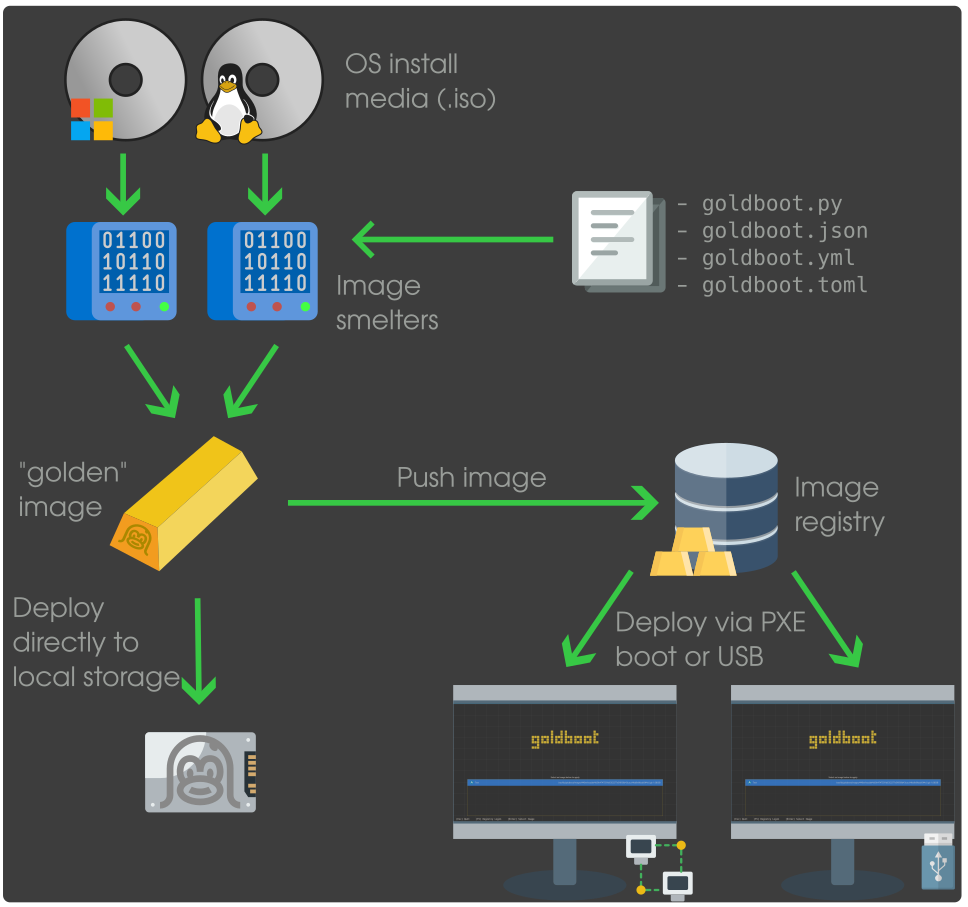
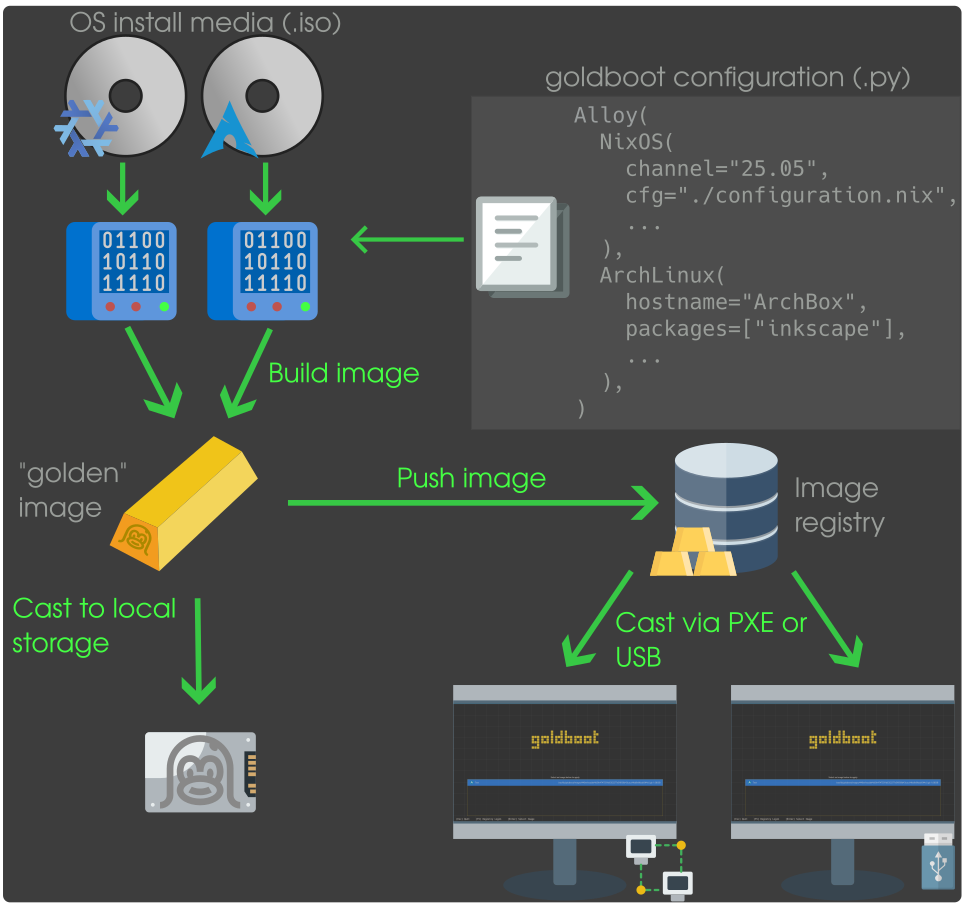
refactor: 'cast' -> 'build'

diff --git a/goldboot/src/foundry/mod.rs b/goldboot/src/foundry/mod.rs
@@ -1,13 +1,13 @@
-use self::qemu::{detect_accel, Accel};
+use self::qemu::{Accel, detect_accel};
 use self::{fabricators::Fabricator, os::Os, sources::ImageSource};
-use crate::foundry::os::CastImage;
+use crate::foundry::os::BuildImage;
 use crate::{cli::progress::ProgressBar, library::ImageLibrary};
 
 use anyhow::Result;
 use byte_unit::Byte;
-use clap::{builder::PossibleValue, ValueEnum};
+use clap::{ValueEnum, builder::PossibleValue};
 use goldboot_image::ImageBuilder;
-use goldboot_image::{qcow::Qcow3, ImageArch, ImageHandle};
+use goldboot_image::{ImageArch, ImageHandle, qcow::Qcow3};
 use rand::Rng;
 use ron::ser::PrettyConfig;
 use serde::{Deserialize, Serialize};
@@ -240,7 +240,7 @@ impl Foundry {
     }
 }
 
-/// Manages the image casting process. Multiple workers can run in parallel
+/// Manages the image build process. Multiple workers can run in parallel
 /// to speed up multiboot configurations.
 pub struct FoundryWorker {
     pub arch: ImageArch,
@@ -277,12 +277,12 @@ pub struct FoundryWorker {
 }
 
 impl FoundryWorker {
-    /// Run the image casting/building process.
+    /// Run the image building process.
     pub fn run(&mut self) -> Result<()> {
         self.start_time = Some(SystemTime::now());
         Qcow3::create(&self.qcow_path, self.qcow_size)?;
 
-        self.element.os.cast(&self)?;
+        self.element.os.build(&self)?;
         info!(
             duration = ?self.start_time.unwrap().elapsed()?,
             "Build completed",

diff --git a/goldboot/src/foundry/os/arch_linux/mod.rs b/goldboot/src/foundry/os/arch_linux/mod.rs
@@ -1,6 +1,7 @@
-use super::{CastImage, DefaultSource};
+use super::{BuildImage, DefaultSource};
 use crate::cli::prompt::Prompt;
 use crate::cli::prompt::PromptNew;
+use crate::foundry::Foundry;
 use crate::foundry::fabricators::Fabricate;
 use crate::foundry::http::HttpServer;
 use crate::foundry::options::hostname::Hostname;
@@ -8,14 +9,13 @@ use crate::foundry::options::unix_account::RootPassword;
 use crate::foundry::os::arch_linux::archinstall::ArchinstallConfig;
 use crate::foundry::os::arch_linux::archinstall::ArchinstallCredentials;
 use crate::foundry::qemu::{OsCategory, QemuBuilder};
-use crate::foundry::Foundry;
 use crate::wait;
 use crate::{
-    foundry::{sources::ImageSource, FoundryWorker},
+    foundry::{FoundryWorker, sources::ImageSource},
     wait_screen_rect,
 };
-use anyhow::bail;
 use anyhow::Result;
+use anyhow::bail;
 use dialoguer::theme::Theme;
 use goldboot_image::ImageArch;
 use serde::{Deserialize, Serialize};
@@ -55,8 +55,8 @@ impl DefaultSource for ArchLinux {
     }
 }
 
-impl CastImage for ArchLinux {
-    fn cast(&self, worker: &FoundryWorker) -> Result<()> {
+impl BuildImage for ArchLinux {
+    fn build(&self, worker: &FoundryWorker) -> Result<()> {
         let mut qemu = QemuBuilder::new(&worker, OsCategory::Linux)
             .source(&worker.element.source)?
             .prepare_ssh()?

diff --git a/goldboot/src/foundry/os/goldboot/mod.rs b/goldboot/src/foundry/os/goldboot/mod.rs
@@ -1,4 +1,4 @@
-use anyhow::{bail, Result};
+use anyhow::{Result, bail};
 use dialoguer::theme::Theme;
 use goldboot_image::ImageArch;
 use serde::{Deserialize, Serialize};
@@ -14,18 +14,18 @@ use crate::{
     cli::prompt::Prompt,
     enter,
     foundry::{
+        Foundry, FoundryWorker,
         http::HttpServer,
         options::{hostname::Hostname, unix_account::RootPassword},
         qemu::{OsCategory, QemuBuilder},
         sources::ImageSource,
-        Foundry, FoundryWorker,
     },
     input, wait, wait_screen, wait_screen_rect,
 };
 
 use super::{
-    debian::{fetch_debian_iso, DebianEdition},
-    CastImage, DefaultSource,
+    BuildImage, DefaultSource,
+    debian::{DebianEdition, fetch_debian_iso},
 };
 
 /// Goldboot Linux is a special-purpose distribution for deploying .gb images.
@@ -58,8 +58,8 @@ impl DefaultSource for Goldboot {
     }
 }
 
-impl CastImage for Goldboot {
-    fn cast(&self, worker: &FoundryWorker) -> Result<()> {
+impl BuildImage for Goldboot {
+    fn build(&self, worker: &FoundryWorker) -> Result<()> {
         // Load goldboot executable
         let exe = if let Some(path) = self.executable.as_ref() {
             std::fs::read(path)?

diff --git a/goldboot/src/foundry/os/debian/mod.rs b/goldboot/src/foundry/os/debian/mod.rs
@@ -1,4 +1,4 @@
-use anyhow::{bail, Result};
+use anyhow::{Result, bail};
 use dialoguer::theme::Theme;
 use goldboot_image::ImageArch;
 use serde::{Deserialize, Serialize};
@@ -9,16 +9,16 @@ use crate::{
     cli::prompt::Prompt,
     enter,
     foundry::{
+        Foundry, FoundryWorker,
         http::HttpServer,
         options::{hostname::Hostname, unix_account::RootPassword},
         qemu::{OsCategory, QemuBuilder},
         sources::ImageSource,
-        Foundry, FoundryWorker,
     },
     input, wait, wait_screen, wait_screen_rect,
 };
 
-use super::{CastImage, DefaultSource};
+use super::{BuildImage, DefaultSource};
 
 #[derive(Clone, Serialize, Deserialize, Debug, Default)]
 pub enum DebianEdition {
@@ -102,8 +102,8 @@ impl DefaultSource for Debian {
     }
 }
 
-impl CastImage for Debian {
-    fn cast(&self, worker: &FoundryWorker) -> Result<()> {
+impl BuildImage for Debian {
+    fn build(&self, worker: &FoundryWorker) -> Result<()> {
         let mut qemu = QemuBuilder::new(&worker, OsCategory::Linux)
             .vga("cirrus")
             .source(&worker.element.source)?

diff --git a/goldboot/src/foundry/os/alpine_linux/mod.rs b/goldboot/src/foundry/os/alpine_linux/mod.rs
@@ -10,15 +10,15 @@ use crate::{
     cli::prompt::{Prompt, PromptNew},
     enter,
     foundry::{
+        Foundry, FoundryWorker,
         options::{hostname::Hostname, unix_account::RootPassword},
         qemu::{OsCategory, QemuBuilder},
         sources::ImageSource,
-        Foundry, FoundryWorker,
     },
     wait, wait_screen_rect,
 };
 
-use super::{CastImage, DefaultSource};
+use super::{BuildImage, DefaultSource};
 
 /// Produces [Alpine Linux](https://www.alpinelinux.org) images.
 #[derive(Clone, Serialize, Deserialize, Validate, Debug, Default)]
@@ -47,8 +47,8 @@ impl Prompt for AlpineLinux {
     }
 }
 
-impl CastImage for AlpineLinux {
-    fn cast(&self, worker: &FoundryWorker) -> Result<()> {
+impl BuildImage for AlpineLinux {
+    fn build(&self, worker: &FoundryWorker) -> Result<()> {
         let mut qemu = QemuBuilder::new(&worker, OsCategory::Linux)
             .source(&worker.element.source)?
             .prepare_ssh()?

diff --git a/goldboot/src/main.rs b/goldboot/src/main.rs
@@ -34,7 +34,7 @@ pub fn main() -> ExitCode {
     // Configure logging
     {
         let default_filter = match &command_line.command {
-            Some(Commands::Cast {
+            Some(Commands::Build {
                 record: _,
                 debug,
                 read_password: _,
@@ -59,7 +59,9 @@ pub fn main() -> ExitCode {
     // Dispatch command
     match &command_line.command {
         Some(Commands::Init { .. }) => goldboot::cli::cmd::init::run(command_line.command.unwrap()),
-        Some(Commands::Cast { .. }) => goldboot::cli::cmd::cast::run(command_line.command.unwrap()),
+        Some(Commands::Build { .. }) => {
+            goldboot::cli::cmd::build::run(command_line.command.unwrap())
+        }
         Some(Commands::Image { .. }) => {
             goldboot::cli::cmd::image::run(command_line.command.unwrap())
         }

diff --git a/goldboot/src/foundry/os/windows_10/mod.rs b/goldboot/src/foundry/os/windows_10/mod.rs
@@ -12,15 +12,15 @@ use crate::{
     cli::prompt::Prompt,
     enter,
     foundry::{
+        Foundry, FoundryWorker,
         options::hostname::Hostname,
         qemu::{OsCategory, QemuBuilder},
         sources::ImageSource,
-        Foundry, FoundryWorker,
     },
     wait,
 };
 
-use super::{CastImage, DefaultSource};
+use super::{BuildImage, DefaultSource};
 
 /// Windows 10 is a major release of Microsoft's Windows NT operating system.
 ///
@@ -57,8 +57,8 @@ impl DefaultSource for Windows10 {
     }
 }
 
-impl CastImage for Windows10 {
-    fn cast(&self, worker: &FoundryWorker) -> Result<()> {
+impl BuildImage for Windows10 {
+    fn build(&self, worker: &FoundryWorker) -> Result<()> {
         let unattended = UnattendXml {
             xmlns: "urn:schemas-microsoft-com:unattend".into(),
             settings: vec![

diff --git a/goldboot/src/foundry/os/windows_11/mod.rs b/goldboot/src/foundry/os/windows_11/mod.rs
@@ -12,15 +12,15 @@ use crate::{
     cli::prompt::Prompt,
     enter,
     foundry::{
+        Foundry, FoundryWorker,
         options::hostname::Hostname,
         qemu::{OsCategory, QemuBuilder},
         sources::ImageSource,
-        Foundry, FoundryWorker,
     },
     wait,
 };
 
-use super::{CastImage, DefaultSource};
+use super::{BuildImage, DefaultSource};
 
 /// Windows 11 is a major release of Microsoft's Windows NT operating system.
 ///
@@ -53,8 +53,8 @@ impl DefaultSource for Windows11 {
     }
 }
 
-impl CastImage for Windows11 {
-    fn cast(&self, worker: &FoundryWorker) -> Result<()> {
+impl BuildImage for Windows11 {
+    fn build(&self, worker: &FoundryWorker) -> Result<()> {
         let unattended = UnattendXml {
             xmlns: "urn:schemas-microsoft-com:unattend".into(),
             settings: vec![

diff --git a/goldboot/src/foundry/os/nix/mod.rs b/goldboot/src/foundry/os/nix/mod.rs
@@ -18,7 +18,7 @@ use crate::{
     wait, wait_screen_rect,
 };
 
-use super::{CastImage, DefaultSource};
+use super::{BuildImage, DefaultSource};
 
 /// NixOS is a free and open source Linux distribution based on the Nix package
 /// manager. NixOS uses an immutable design and an atomic update model. Its use
@@ -64,8 +64,8 @@ impl Prompt for Nix {
     }
 }
 
-impl CastImage for Nix {
-    fn cast(&self, worker: &FoundryWorker) -> Result<()> {
+impl BuildImage for Nix {
+    fn build(&self, worker: &FoundryWorker) -> Result<()> {
         let mut qemu = QemuBuilder::new(&worker, OsCategory::Linux)
             .source(&worker.element.source)?
             // Add Nix config

diff --git a/goldboot/src/cli/cmd/build.rs b/goldboot/src/cli/cmd/build.rs
@@ -5,7 +5,7 @@ use validator::Validate;
 
 pub fn run(cmd: super::Commands) -> ExitCode {
     match cmd {
-        super::Commands::Cast {
+        super::Commands::Build {
             record,
             debug,
             read_password,
@@ -57,7 +57,7 @@ pub fn run(cmd: super::Commands) -> ExitCode {
             // Run the build finally
             match foundry.run(output) {
                 Err(err) => {
-                    error!(error = ?err, "Failed to cast image");
+                    error!(error = ?err, "Failed to build image");
                     ExitCode::FAILURE
                 }
                 _ => ExitCode::SUCCESS,

diff --git a/goldboot/src/foundry/os/mod.rs b/goldboot/src/foundry/os/mod.rs
@@ -27,12 +27,12 @@ pub mod nix;
 pub mod windows_10;
 pub mod windows_11;
 
-/// "Casting" is the process of generating an immutable goldboot image from raw
+/// "Building" is the process of generating an immutable goldboot image from raw
 /// configuration data.
 #[enum_dispatch(Os)]
-pub trait CastImage {
-    /// Cast an image.
-    fn cast(&self, context: &FoundryWorker) -> Result<()>;
+pub trait BuildImage {
+    /// Build an image.
+    fn build(&self, context: &FoundryWorker) -> Result<()>;
 }
 
 #[enum_dispatch(Os)]

diff --git a/goldboot/src/cli/cmd/mod.rs b/goldboot/src/cli/cmd/mod.rs
@@ -1,6 +1,6 @@
-use crate::foundry::{os::Os, FoundryConfigPath};
+use crate::foundry::{FoundryConfigPath, os::Os};
 
-pub mod cast;
+pub mod build;
 pub mod deploy;
 pub mod image;
 pub mod init;
@@ -9,8 +9,8 @@ pub mod registry;
 
 #[derive(clap::Subcommand, Debug)]
 pub enum Commands {
-    /// Cast (build) a new image
-    Cast {
+    /// Build a new image
+    Build {
         /// Save a screenshot to ./screenshots after each boot command for
         /// debugging
         #[clap(long, num_args = 0)]
